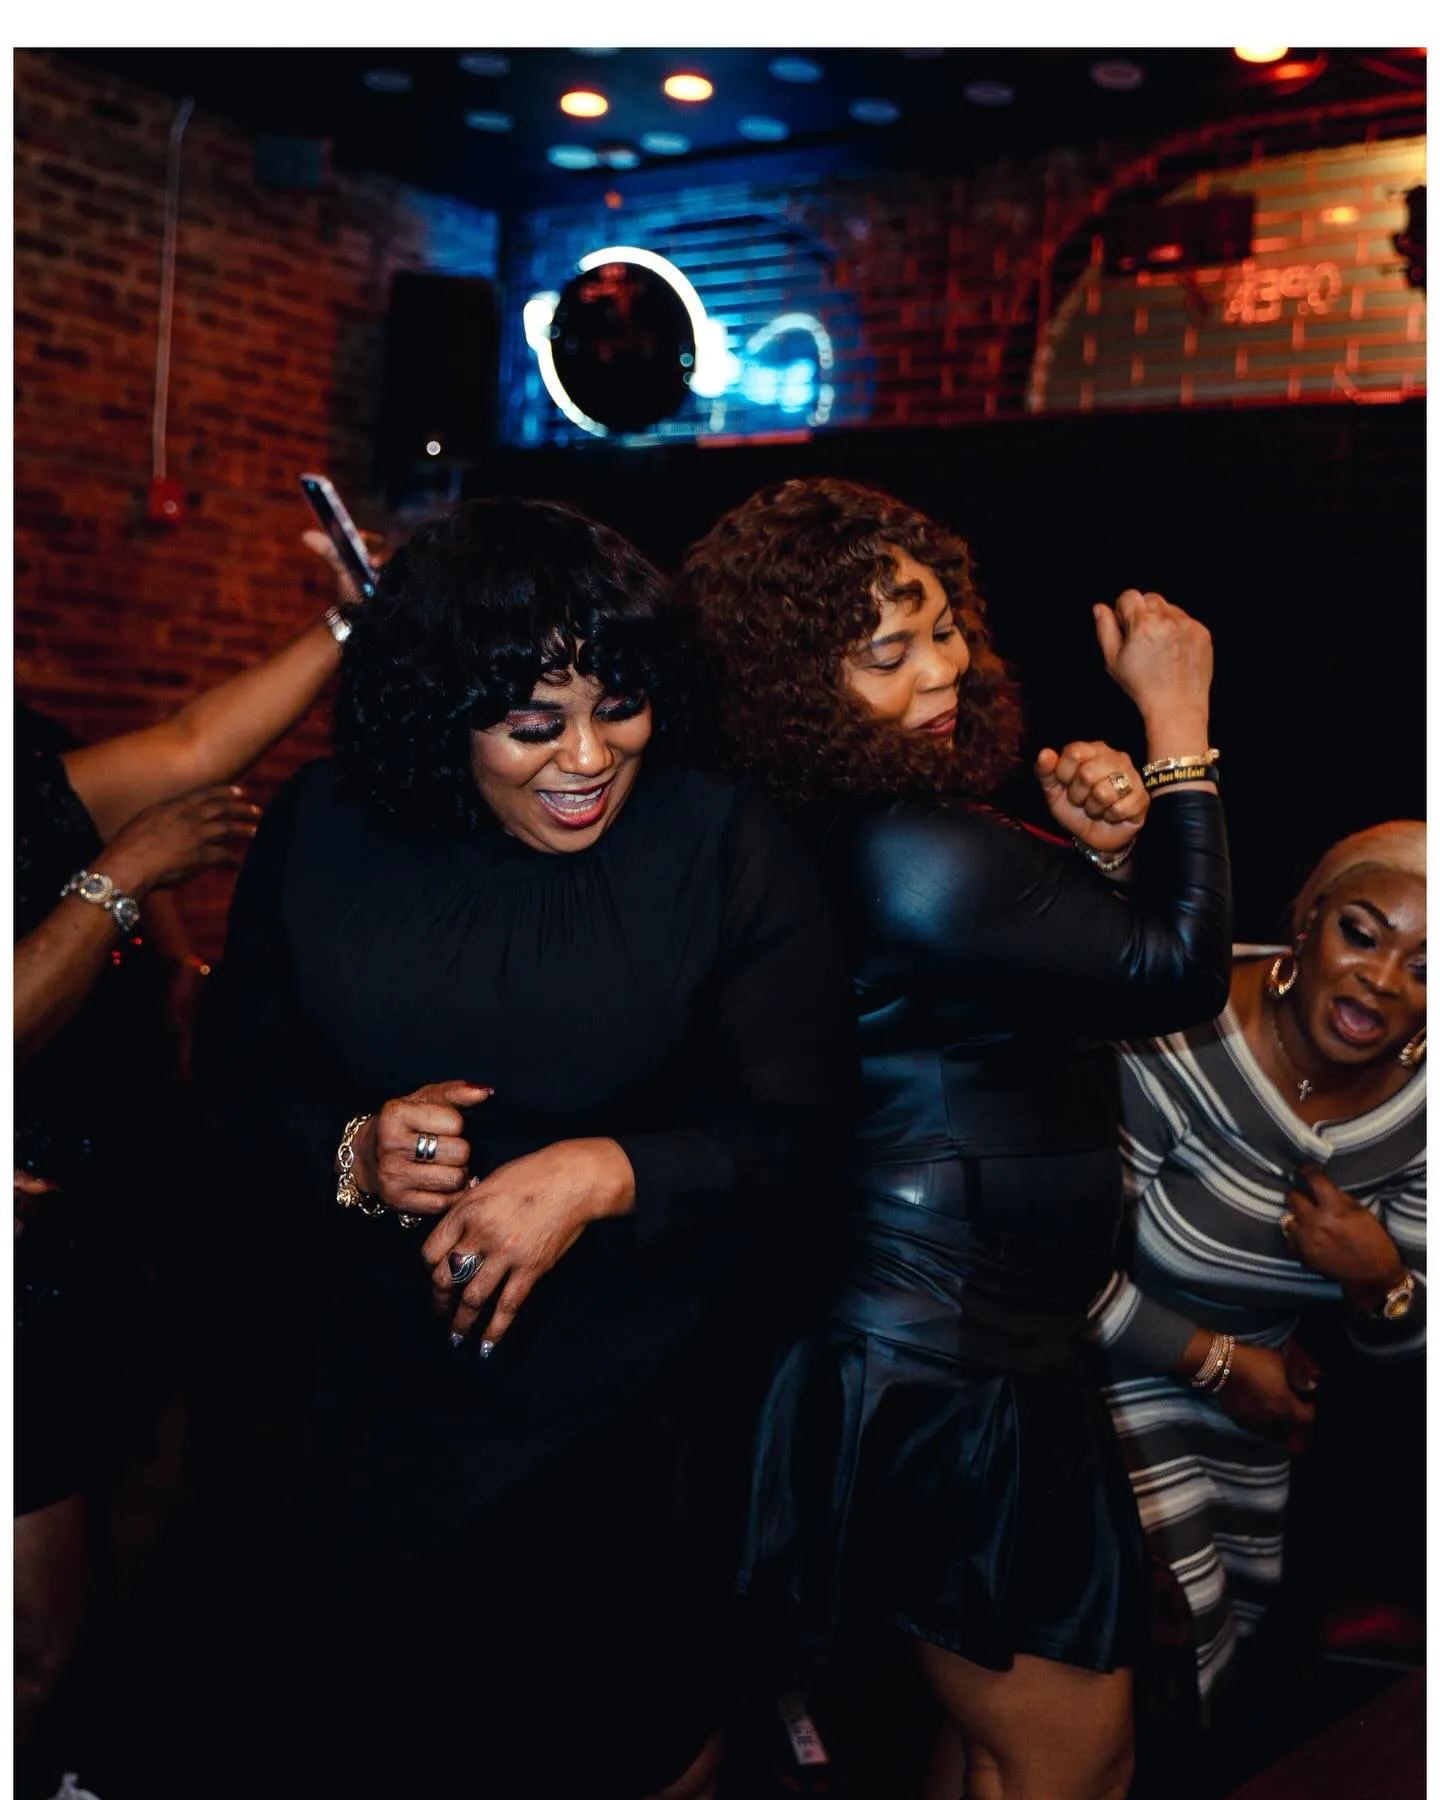
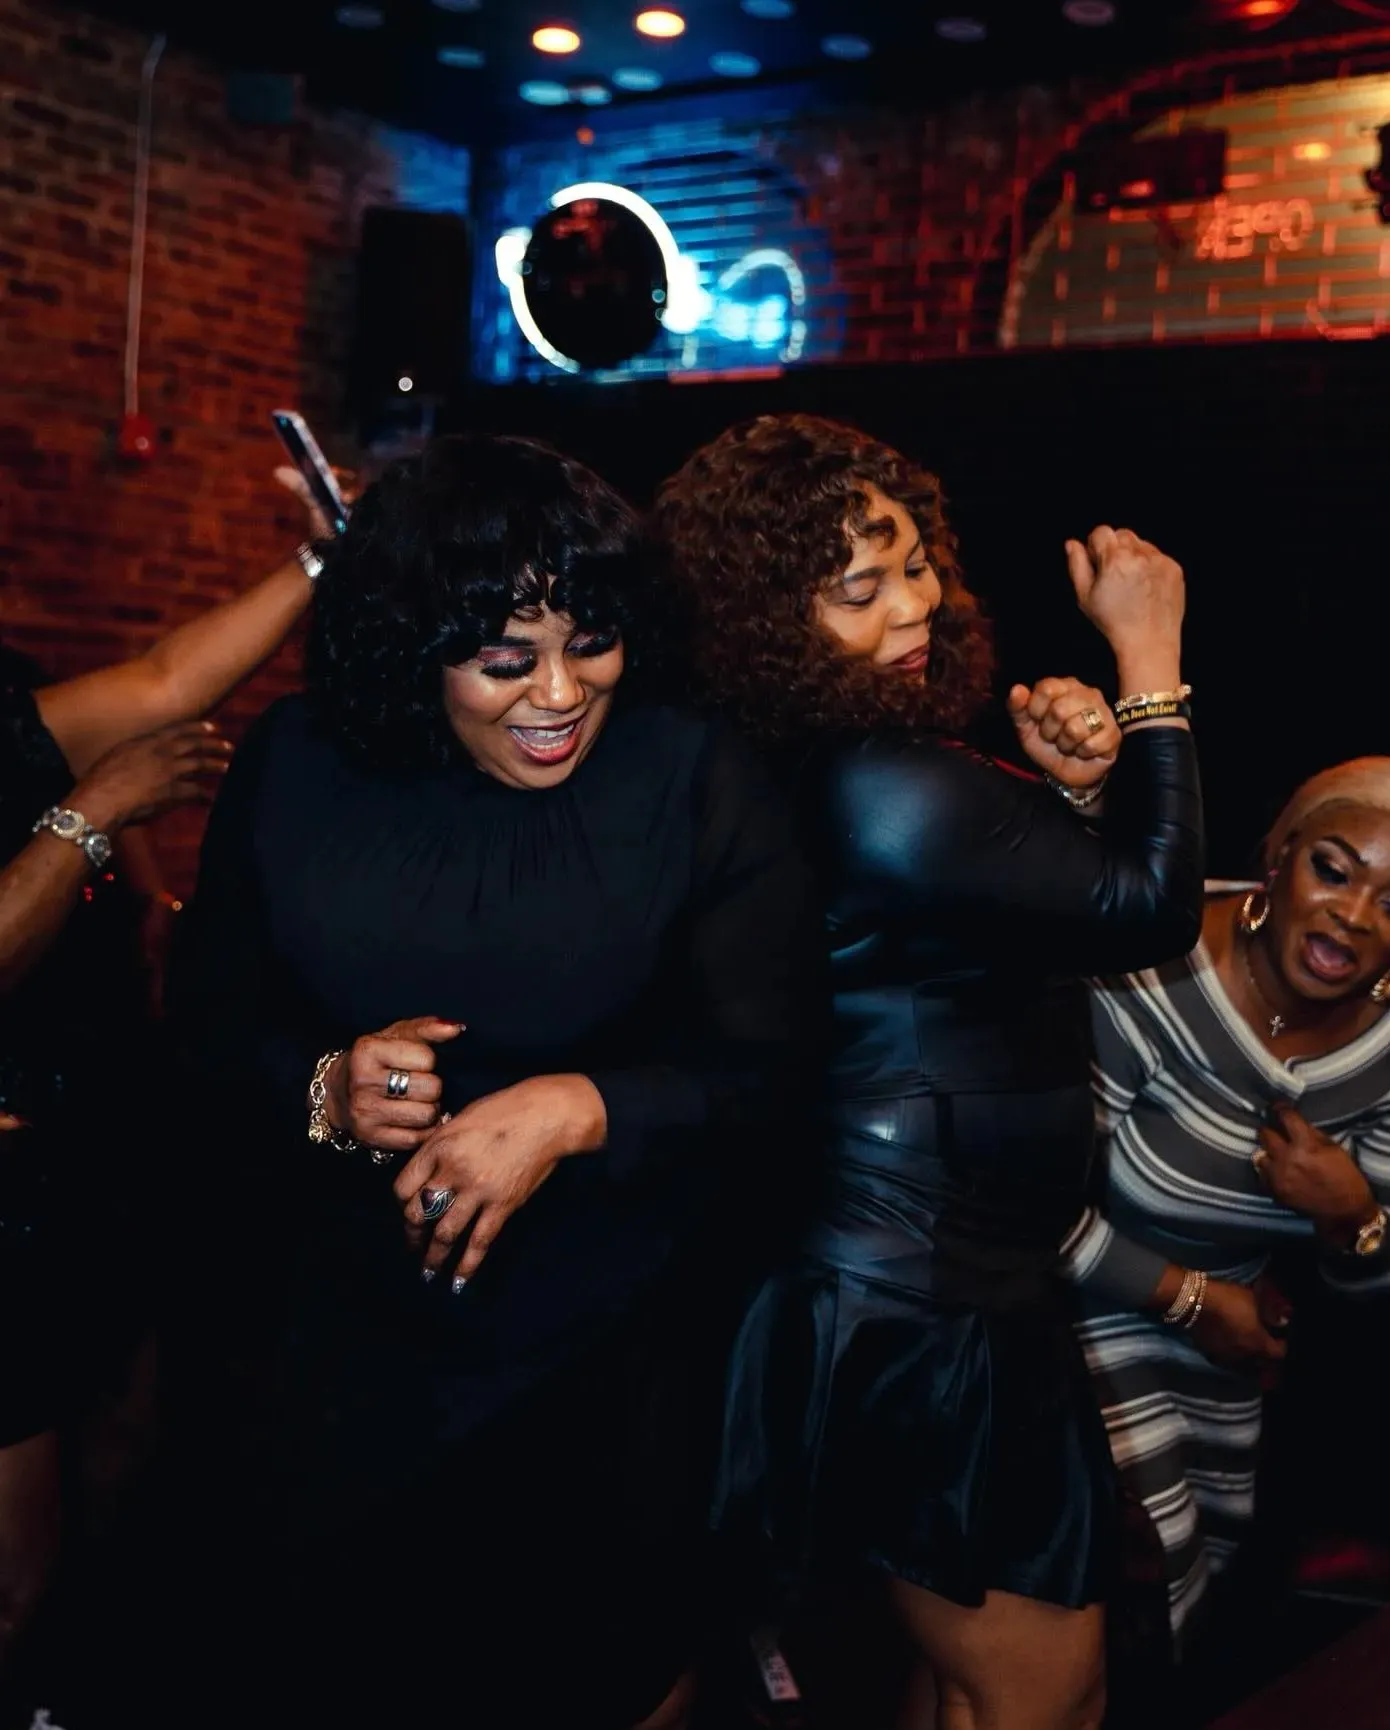
image from jpg to webp

diff --git a/gallery-detail.js b/gallery-detail.js
@@ -98,23 +98,22 @@
         'jerimic images/Luxury Celebration/jerimicstudio__2026-04-04T053150.000Z_16.webp',
         'jerimic images/Luxury Celebration/jerimicstudio__2026-04-04T053150.000Z_17.webp',
         'jerimic images/Luxury Celebration/jerimicstudio__2026-04-04T053150.000Z_18.webp',
-        'jerimic images/Luxury Celebration/jerimicstudio__2026-04-04T053150.000Z_2.webp',
-        'jerimic images/Luxury Celebration/jerimicstudio__2026-04-04T053150.000Z_3.jpg',
-        'jerimic images/Luxury Celebration/jerimicstudio__2026-04-04T053150.000Z_4.jpg',
-        'jerimic images/Luxury Celebration/jerimicstudio__2026-04-04T053150.000Z_5.jpg',
-        'jerimic images/Luxury Celebration/jerimicstudio__2026-04-04T053150.000Z_6.jpg',
-        'jerimic images/Luxury Celebration/jerimicstudio__2026-04-04T053150.000Z_7.jpg',
-        'jerimic images/Luxury Celebration/jerimicstudio__2026-04-04T053150.000Z_8.jpg',
-        'jerimic images/Luxury Celebration/jerimicstudio__2026-04-04T053150.000Z_9.jpg',
-        'jerimic images/Luxury Celebration/jerimicstudio__2026-04-19T055546.000Z.jpg',
-        'jerimic images/Luxury Celebration/jerimicstudio__2026-04-19T055546.000Z_1.jpg',
-        'jerimic images/Luxury Celebration/jerimicstudio__2026-04-19T055546.000Z_10.jpg',
+        'jerimic images/Luxury Celebration/jerimicstudio__2026-04-19T055546.000Z_2.webp',
+        'jerimic images/Luxury Celebration/jerimicstudio__2026-04-04T053150.000Z_3.webp',
+        'jerimic images/Luxury Celebration/jerimicstudio__2026-04-04T053150.000Z_4.webp',
+        'jerimic images/Luxury Celebration/jerimicstudio__2026-04-04T053150.000Z_5.webp',
+        'jerimic images/Luxury Celebration/jerimicstudio__2026-04-04T053150.000Z_6.webp',
+        'jerimic images/Luxury Celebration/jerimicstudio__2026-04-04T053150.000Z_7.webp',
+        'jerimic images/Luxury Celebration/jerimicstudio__2026-04-04T053150.000Z_8.webp',
+        'jerimic images/Luxury Celebration/jerimicstudio__2026-04-04T053150.000Z_9.webp',
+        'jerimic images/Luxury Celebration/jerimicstudio__2026-04-19T055546.000Z_1.webp',
+        'jerimic images/Luxury Celebration/jerimicstudio__2026-04-19T055546.000Z_10.webp',
         'jerimic images/Luxury Celebration/jerimicstudio__2026-04-19T055546.000Z_11.webp',
         'jerimic images/Luxury Celebration/jerimicstudio__2026-04-19T055546.000Z_12.webp',
         'jerimic images/Luxury Celebration/jerimicstudio__2026-04-19T055546.000Z_13.webp',
         'jerimic images/Luxury Celebration/jerimicstudio__2026-04-19T055546.000Z_2.webp',
         'jerimic images/Luxury Celebration/jerimicstudio__2026-04-19T055546.000Z_3.webp',
-        'jerimic images/Luxury Celebration/jerimicstudio__2026-04-19T055546.000Z_4.webp',
+        'jerimic images/Luxury Celebration/jerimicstudio__2026-03-07T183338.000Z.webp',
         'jerimic images/Luxury Celebration/jerimicstudio__2026-04-19T055546.000Z_5.webp',
         'jerimic images/Luxury Celebration/jerimicstudio__2026-04-19T055546.000Z_6.webp',
         'jerimic images/Luxury Celebration/jerimicstudio__2026-04-19T055546.000Z_7.webp',
